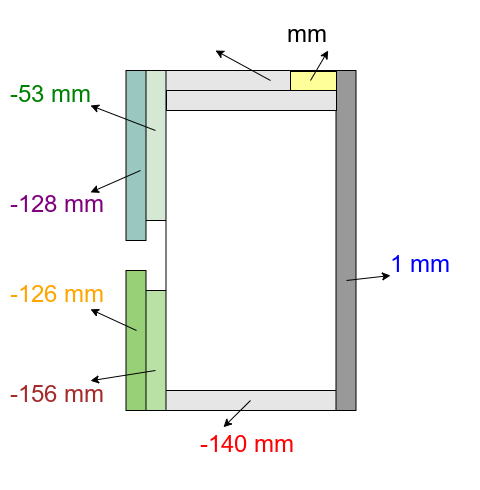
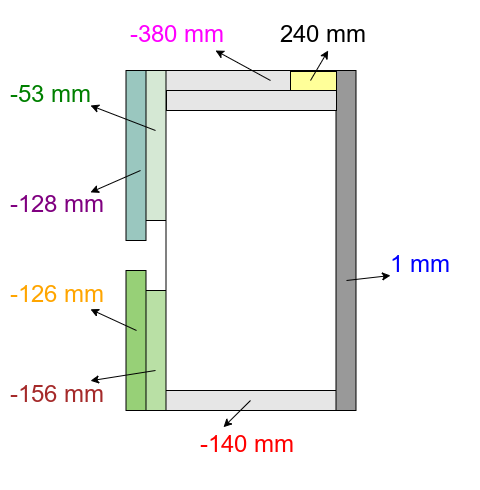
perubahan yingongqi

Changed region(s): [[0.2812, 0.0306, 0.4688, 0.0918], [0.5938, 0.0306, 0.7812, 0.0918]]

diff --git a/Appmajor.py b/Appmajor.py
@@ -371,13 +371,19 @@ class DoorFrameCalculator:
         self.language_menu.entryconfig(1, label="中文")
         self.language_menu.entryconfig(2, label="Bahasa")
         
-    def add_annotations(self, image_path, vertical_length, horizontal_length, door_type, outer_wood_upper, inner_wood_upper, outer_wood_bottom, inner_wood_bottom, concealed_length, very_upper_horizontal_piece_length):
+    def add_annotations(self, image_path, vertical_length, horizontal_length, door_type, outer_wood_upper, inner_wood_upper, outer_wood_bottom, inner_wood_bottom, concealed_length, very_upper_horizontal_piece_length, concealed_door_closer_name):
         # Open the image file
         image = Image.open(image_path)
         draw = ImageDraw.Draw(image)
         
         # Define font and size
         font = ImageFont.truetype("arial.ttf", 24)  # Ensure the font file is available
+        
+        if concealed_door_closer_name in concealeds:
+            concealed_length = concealeds[concealed_door_closer_name]['length']
+        else:
+            # Set default values if no concealed door closer is selected
+            concealed_length = 0
 
         # Annotation positions can be adjusted based on door_type
         if door_type == self.simple_label:
@@ -385,7 +391,7 @@ class DoorFrameCalculator:
             f"{horizontal_length} mm": ((100, 20), "red"),   # Position and color for horizontal length
             f"{vertical_length} mm": ((10, 210), "blue")     # Position and color for vertical length
         }
-        elif door_type == self.electric_lock_label and self.concealed_label:
+        elif door_type == self.electric_lock_label and concealed_length > 0:
             annotations = {
                 f"{very_upper_horizontal_piece_length} mm": ((130, 20), "magenta"),
                 f"{outer_wood_upper} mm": ((10, 80), "green"),
@@ -396,7 +402,7 @@ class DoorFrameCalculator:
                 f"{horizontal_length} mm": ((200, 430), "red"),
                 f"{concealed_length} mm": ((280, 20), "black")
             }
-        elif door_type == self.electric_lock_label:
+        elif door_type == self.electric_lock_label and concealed_length == 0:
             annotations = {
                 f"{horizontal_length} mm": ((130, 20), "red"),
                 f"{outer_wood_upper} mm": ((10, 80), "green"),
@@ -405,7 +411,7 @@ class DoorFrameCalculator:
                 f"{inner_wood_bottom} mm": ((10, 380), "brown"),
                 f"{vertical_length} mm": ((390, 260), "blue")
             }
-        elif door_type == self.box_lock_label and self.concealed_label:
+        elif door_type == self.box_lock_label and concealed_length > 0:
             annotations = {
                 f"{very_upper_horizontal_piece_length} mm": ((130, 20), "magenta"),
                 f"{outer_wood_upper} mm": ((10, 80), "green"),
@@ -416,7 +422,7 @@ class DoorFrameCalculator:
                 f"{horizontal_length} mm": ((200, 430), "red"),
                 f"{concealed_length} mm": ((280, 20), "black")
             }
-        elif door_type == self.box_lock_label:
+        elif door_type == self.box_lock_label and concealed_length == 0:
             annotations = {
                 f"{horizontal_length} mm": ((130, 20), "red"),
                 f"{outer_wood_upper} mm": ((10, 80), "green"),
@@ -508,6 +514,7 @@ class DoorFrameCalculator:
                 #     if not self.entries[key][1].get().strip().isdigit():
                 #         raise ValueError(f"Please enter a valid number for {translations[self.current_language][key]}")
                 box_lock_name = self.entries["box_lock_name"][1].get().strip()
+                concealed_door_closer_name = self.entries["concealed_door_closer_name"][1].get().strip()
                 if box_lock_name in box_locks:
                     lock_length = box_locks[box_lock_name]['length']
                     lock_offset_bottom = box_locks[box_lock_name]['offset_bottom']
@@ -518,7 +525,7 @@ class DoorFrameCalculator:
                     lock_length = int(self.entries["lock_length"][1].get())
                     lock_offset_bottom = int(self.entries["lock_offset_bottom"][1].get())
                     lock_offset_top = lock_length - lock_offset_bottom
-                    concealed_length = int(self.entries["lock_length"][1].get())
+                    # concealed_length = ""
                 box_lock_height = int(self.entries["lock_height"][1].get())
                 lock_direction = self.entries["lock_direction"][1].get().strip().lower()
                 # concealed_door_closer = self.entries["concealed_door_closer"][1].get().strip().lower()
@@ -529,17 +536,19 @@ class DoorFrameCalculator:
                 #     if not self.entries[key][1].get().strip().isdigit():
                 #         raise ValueError(f"Please enter a valid number for {translations[self.current_language][key]}")
                 electric_lock_name = self.entries["electric_lock_name"][1].get().strip()
+                concealed_door_closer_name = self.entries["concealed_door_closer_name"][1].get().strip()
                 if electric_lock_name in electric_locks:
                     lock_length = electric_locks[electric_lock_name]['length']
                     lock_offset_bottom = electric_locks[electric_lock_name]['offset_bottom']
                     lock_offset_top = electric_locks[electric_lock_name]['offset_top']
                 elif concealed_door_closer_name in concealeds:
                     concealed_length = concealeds[concealed_door_closer_name]['length']
+                    # print(f"\nelectriiicccconcealed_door_closer_name: {concealed_door_closer_name}")
                 else:
                     lock_length = int(self.entries["lock_length"][1].get())
                     lock_offset_bottom = int(self.entries["lock_offset_bottom"][1].get())
                     lock_offset_top = lock_length - lock_offset_bottom
-                    concealed_length = int(self.entries["lock_length"][1].get())
+                    # concealed_length = ""
                 electric_lock_height = int(self.entries["lock_height"][1].get())
                 lock_direction = self.entries["lock_direction"][1].get().strip().lower()
                 # concealed_door_closer = self.entries["concealed_door_closer"][1].get().strip().lower()
@@ -561,8 +570,6 @@ class DoorFrameCalculator:
                 frame_height += 5
                 frame_width += 5
                 
-            
-
 
             inner_width, plywood_width, plywood_height, total_length_all_doors, vertical_piece_length, \
                 horizontal_pieces_length, frame_width, outer_wood_bottom, inner_wood_bottom, \
@@ -586,17 +593,23 @@ class DoorFrameCalculator:
             # print(f"door_type: '{door_type}'")
             # print(f"Expected: simple_label='{self.simple_label}', ub_label='{self.ub_label}', electric_lock_label='{self.electric_lock_label}', box_lock_label='{self.box_lock_label}'")
 
+            if concealed_door_closer_name in concealeds:
+                concealed_length = concealeds[concealed_door_closer_name]['length']
+            else:
+                # Set default values if no concealed door closer is selected
+                concealed_length = 0            
+
             if door_type == self.simple_label:
                 image_path = os.path.join(application_path, 'simple.png')
             elif door_type == self.ub_label:
                 image_path = os.path.join(application_path, 'UB.png')
-            elif door_type == self.electric_lock_label and self.concealed_label:
+            elif door_type == self.electric_lock_label and concealed_length > 0:
                 image_path = os.path.join(application_path, 'kunci menkongqi.png')
-            elif door_type == self.box_lock_label and self.concealed_label:
+            elif door_type == self.box_lock_label and concealed_length > 0:
                 image_path = os.path.join(application_path, 'kunci menkongqi.png')
-            elif door_type == self.electric_lock_label:
+            elif door_type == self.electric_lock_label and concealed_length == 0:
                 image_path = os.path.join(application_path, 'kunci.png')
-            elif door_type == self.box_lock_label:
+            elif door_type == self.box_lock_label and concealed_length == 0:
                 image_path = os.path.join(application_path, 'kunci.png')
             else:
                 # print("No match found, defaulting to None")
@@ -612,7 +625,7 @@ class DoorFrameCalculator:
                 raise FileNotFoundError(f"Image file not found at {image_path}")
             
             # Annotate the image
-            annotated_image_path = self.add_annotations(image_path, vertical_piece_length, horizontal_pieces_length, door_type, outer_wood_upper, inner_wood_upper, outer_wood_bottom, inner_wood_bottom, concealed_door_closer_name, very_upper_horizontal_piece_length)
+            annotated_image_path = self.add_annotations(image_path, vertical_piece_length, horizontal_pieces_length, door_type, outer_wood_upper, inner_wood_upper, outer_wood_bottom, inner_wood_bottom, concealed_length, very_upper_horizontal_piece_length,  concealed_door_closer_name)
             
             # Configure text tags for styling
             self.result_text.tag_configure("title", foreground="black", font=("Helvetica", 13, "bold"))
@@ -720,8 +733,6 @@ class DoorFrameCalculator:
         # print("test3", horizontal_pieces_length)
         very_upper_horizontal_piece_width = 100
         very_upper_horizontal_piece_length = horizontal_pieces_length
-        print(f"\n111Very Upper Horizontal Piece Length: {very_upper_horizontal_piece_length}")
-
 
         total_length_per_door = vertical_piece_length * 2 + horizontal_pieces_length * 2
         total_length_all_doors = total_length_per_door * num_doors
@@ -741,11 +752,13 @@ class DoorFrameCalculator:
                 outer_wood_bottom = frame_height - (outer_wood_upper + lock_length)
                 inner_wood_bottom = outer_wood_bottom - 30
                 
-            if concealed_door_closer_name == self.concealed_label:
+            if concealed_door_closer_name in concealeds:
+                concealed_length = concealeds[concealed_door_closer_name]['length']
                 very_upper_horizontal_piece_width = 100
                 very_upper_horizontal_piece_length -= concealed_length
                 very_upper_horizontal_piece_length = horizontal_pieces_length - concealed_length
-        print(f"\n222Very Upper Horizontal Piece Length: {very_upper_horizontal_piece_length}")
+            #     print(f"\nConcealed Length: {concealed_length}")
+            # print(f"\n222Very Upper Horizontal Piece Length: {very_upper_horizontal_piece_length}")
 
             # if concealed_door_closer == "no":
             #     very_upper_horizontal_piece_width = 0
@@ -763,11 +776,10 @@ class DoorFrameCalculator:
                 outer_wood_bottom = frame_height - (outer_wood_upper + lock_length)
                 inner_wood_bottom = outer_wood_bottom - 30
                 
-            if concealed_door_closer_name == self.concealed_label:
+            if concealed_door_closer_name in concealeds:
                 very_upper_horizontal_piece_width = 100
                 very_upper_horizontal_piece_length -= concealed_length
                 very_upper_horizontal_piece_length = horizontal_pieces_length - concealed_length
-                print(f"\nVery Upper Horizontal Piece Length: {very_upper_horizontal_piece_length}")
 
                 
         if (door_type == self.electric_lock_label or door_type == self.box_lock_label) and concealed_door_closer_name == self.concealed_label:
@@ -775,8 +787,7 @@ class DoorFrameCalculator:
             plywood_height = frame_height - upper_horizontal_piece_width - lower_horizontal_piece_width - very_upper_horizontal_piece_width
             plywood_width = inner_width
             # print("test4", inner_width)
-            print(f"\nConcealed Door Closer: {concealed_door_closer_name}")
-            print(f"\nConcealed Length: {concealed_length}")
+
 
         return inner_width, plywood_width, plywood_height, total_length_all_doors, vertical_piece_length, \
                horizontal_pieces_length, frame_width, outer_wood_bottom, inner_wood_bottom, outer_wood_upper, inner_wood_upper, very_upper_horizontal_piece_width,\
@@ -854,8 +865,10 @@ class DoorFrameCalculator:
             for width, data in unique_horizontal_widths.items():
                 report += f"""
                 Width {width} mm:"""
+            if concealed_door_closer_name in concealeds:
+                report += f"""
+            - {translations[lang]["concealed_door_closer"]}: {concealed_door_closer_name} {very_upper_horizontal_piece_length} mm"""
             report += f"""
-            - {translations[lang]["concealed_door_closer"]} : {concealed_door_closer_name} {very_upper_horizontal_piece_length} mm
             - {translations[lang]["length_each_pieceh"]}: {inner_width} mm
             - {translations[lang]["num_pieces_per_door"]}: {len([inner_width, inner_width, very_upper_horizontal_piece_length])}
             - {translations[lang]["total_num_pieces"]}: {(len([inner_width, inner_width, very_upper_horizontal_piece_length]))*num_doors}
@@ -904,8 +917,11 @@ class DoorFrameCalculator:
             for width, data in unique_horizontal_widths.items():
                 report += f"""
                 Width {width} mm:"""
+            if concealed_door_closer_name in concealeds:
+                report += f"""
+            - {translations[lang]["concealed_door_closer"]}: {concealed_door_closer_name} {very_upper_horizontal_piece_length} mm
+                """
             report += f"""
-            - {translations[lang]["concealed_door_closer"]} : {concealed_door_closer_name} {very_upper_horizontal_piece_length} mm
             - {translations[lang]["length_each_pieceh"]}: {inner_width} mm
             - {translations[lang]["num_pieces_per_door"]}: {len([inner_width, inner_width, very_upper_horizontal_piece_length])}
             - {translations[lang]["total_num_pieces"]}: {(len([inner_width, inner_width, very_upper_horizontal_piece_length]))*num_doors}
